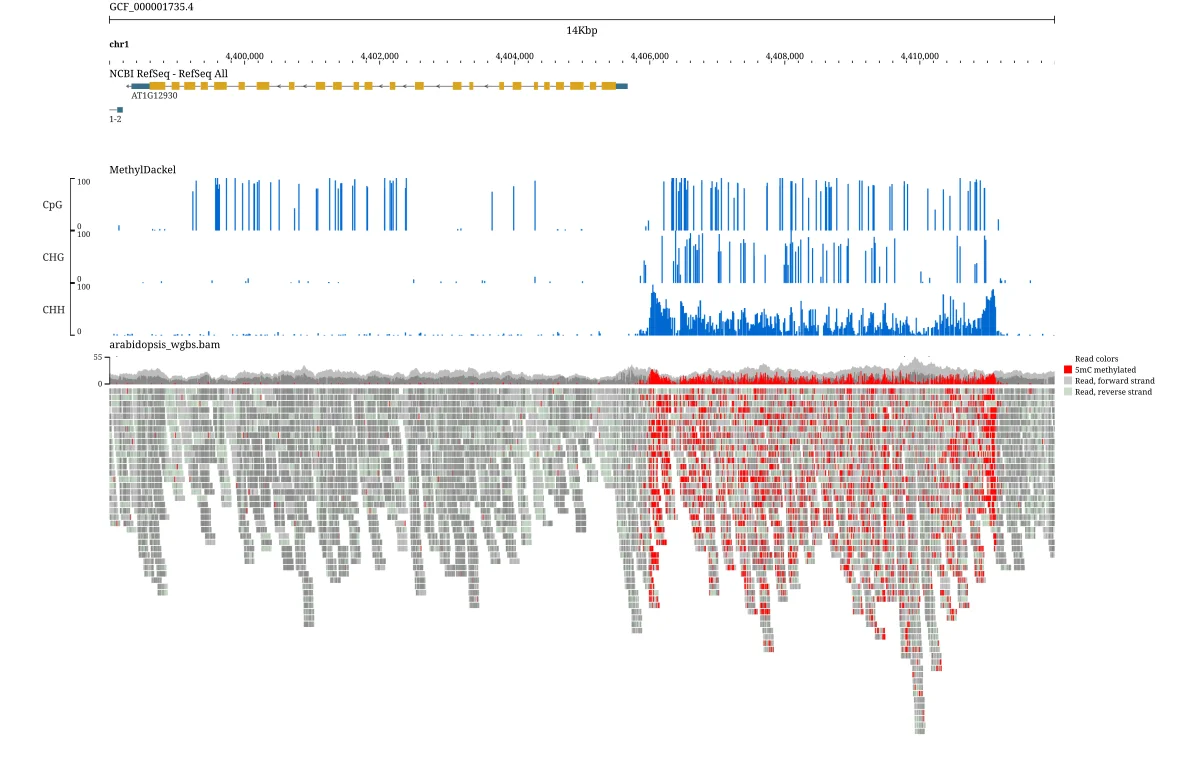
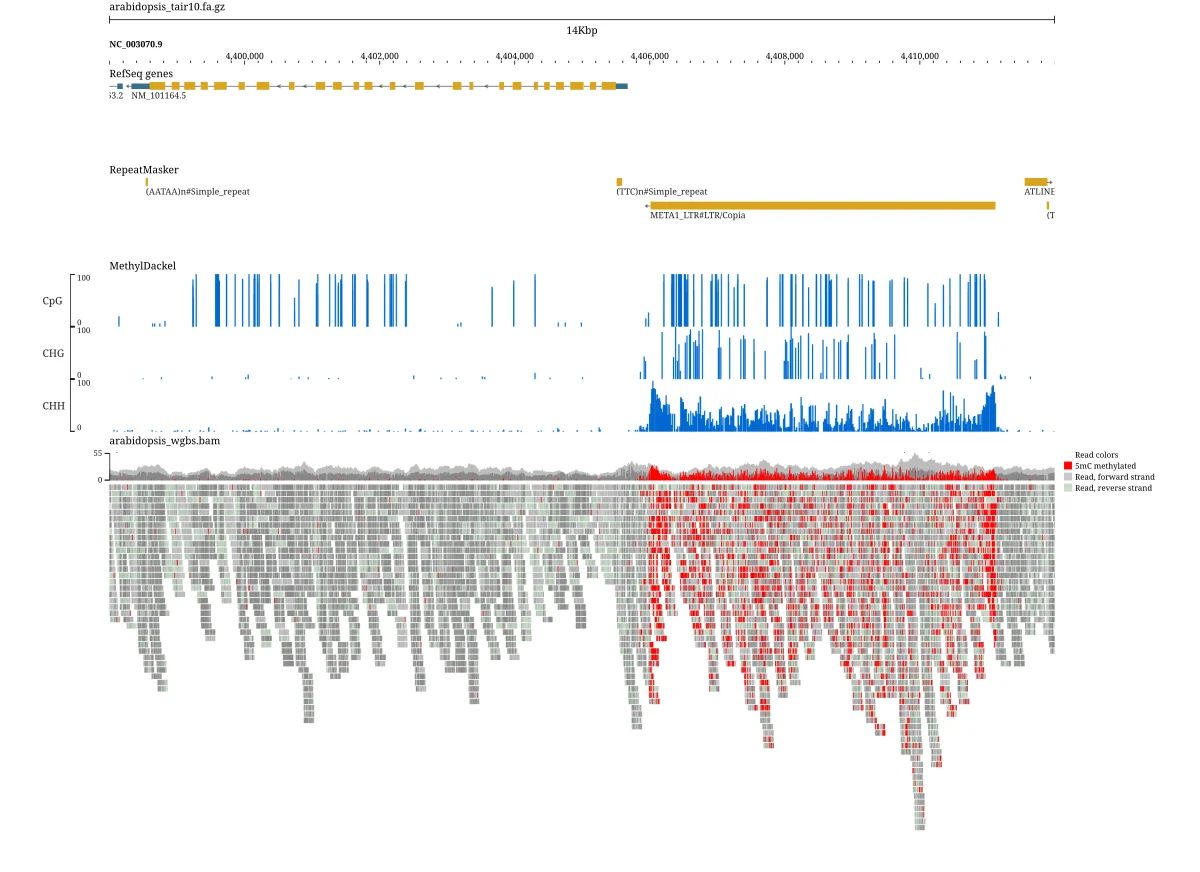
Gallery: bisulfite entry reads the vendored genes, repeats and MethylDackel bigWigs, and adds RepeatMasker

diff --git a/docs/gallery.md b/docs/gallery.md
@@ -207,32 +207,31 @@ jb2export --fasta inst/extdata/hg38_clip.fa \
 `NC_003070.9:4,398,001-4,412,000`
 
 <table>
-<tr><td width="50%"><img src="../gallery/bisulfite-jbrowse.webp" alt="CHH methylation from bisulfite reads in JBrowse. MethylDackel's three context bigWigs and each read's methylated CHH cytosines in red, under the RefSeq gene AT1G12930: CHH is dense over the silenced LTR retrotransposon on the right and rare over the gene body on the left, which carries CpG methylation only." width="100%"></td><td width="50%"><img src="../gallery/bisulfite-r.webp" alt="CHH methylation from bisulfite reads drawn by ggjbrowse. MethylDackel's three context bigWigs and each read's methylated CHH cytosines in red, under the RefSeq gene AT1G12930: CHH is dense over the silenced LTR retrotransposon on the right and rare over the gene body on the left, which carries CpG methylation only." width="100%"></td></tr>
+<tr><td width="50%"><img src="../gallery/bisulfite-jbrowse.webp" alt="CHH methylation from bisulfite reads in JBrowse. RefSeq genes and RepeatMasker over MethylDackel's three context bigWigs and each read's methylated CHH cytosines in red: CHH is dense over the LTR/Copia element on the right and rare over the gene on the left, which carries CpG methylation only." width="100%"></td><td width="50%"><img src="../gallery/bisulfite-r.webp" alt="CHH methylation from bisulfite reads drawn by ggjbrowse. RefSeq genes and RepeatMasker over MethylDackel's three context bigWigs and each read's methylated CHH cytosines in red: CHH is dense over the LTR/Copia element on the right and rare over the gene on the left, which carries CpG methylation only." width="100%"></td></tr>
 </table>
 
-MethylDackel's three context bigWigs and each read's methylated CHH cytosines in red, under the RefSeq gene AT1G12930: CHH is dense over the silenced LTR retrotransposon on the right and rare over the gene body on the left, which carries CpG methylation only.
+RefSeq genes and RepeatMasker over MethylDackel's three context bigWigs and each read's methylated CHH cytosines in red: CHH is dense over the LTR/Copia element on the right and rare over the gene on the left, which carries CpG methylation only.
 
 ```r
 locus <- "NC_003070.9:4,398,001-4,412,000"
-hub <- "https://hgdownload.soe.ucsc.edu/hubs/GCF/000/001/735/GCF_000001735.4"
-genes <- jbrowse_features(
-  file.path(hub, "bbi", "GCF_000001735.4_TAIR10.1.ncbiRefSeq.bb"), locus)
-demo <- "https://jbrowse.org/demos/bisulfite/arabidopsis_wgbs_"
+genes <- jbrowse_features(e("arabidopsis_refseq.bb"), locus)
+repeats <- jbrowse_features(e("arabidopsis_rmsk.bb"), locus)
 methyldackel <- list(type = "MultiWiggleAdapter",
   subadapters = lapply(c("CpG", "CHG", "CHH"), function(context)
-    list(type = "BigWigAdapter", name = context,
-      bigWigLocation = list(uri = paste0(demo, context, ".bw")))))
+    list(type = "BigWigAdapter", name = context, bigWigLocation = list(
+      uri = e(sprintf("arabidopsis_methyldackel_%s.bw", context))))))
 reads <- jbrowse_alignments(e("arabidopsis_wgbs.bam"), locus,
   reference = e("arabidopsis_tair10.fa.gz"),
   display = list(baseColor = list(field = "bisulfite"),
     modifications = list(cytosineContext = "CHH")))
-jbrowse_stack(`RefSeq genes` = genes,
+jbrowse_stack(`RefSeq genes` = genes, RepeatMasker = repeats,
   MethylDackel = jbrowse_wiggle(methyldackel, locus), `CHH reads` = reads)
 ```
 
 ```sh
-jb2export --hub GCF_000001735.4 \
-  --track ncbiRefSeq \
+jb2export --fasta inst/extdata/arabidopsis_tair10.fa.gz \
+  --bigbed inst/extdata/arabidopsis_refseq.bb 'name:RefSeq genes' \
+  --bigbed inst/extdata/arabidopsis_rmsk.bb name:RepeatMasker \
   --multiwig gallery/jb2export/methyldackel.json name:MethylDackel showLegend=true \
   --bam inst/extdata/arabidopsis_wgbs.bam baseColor:bisulfite modifications.cytosineContext=CHH showLegend=true heightMode:grow growMaxHeight=2000 \
   --loc NC_003070.9:4,398,001-4,412,000 \

diff --git a/README.md b/README.md
@@ -47,7 +47,7 @@ remotes::install_github("GMOD/ggjbrowse")
 <tr><td colspan="2"><b><a href="docs/gallery.md#methylation">CpG methylation from MM/ML tags</a></b> <code>20:10,001-22,000</code></td></tr>
 <tr><td width="50%"><img src="gallery/methylation-jbrowse.webp" alt="CpG methylation from MM/ML tags in JBrowse. Each read's 5mC calls in red where methylated and blue where not." width="100%"></td><td width="50%"><img src="gallery/methylation-r.webp" alt="CpG methylation from MM/ML tags drawn by ggjbrowse. Each read's 5mC calls in red where methylated and blue where not." width="100%"></td></tr>
 <tr><td colspan="2"><b><a href="docs/gallery.md#bisulfite">CHH methylation from bisulfite reads</a></b> <code>NC_003070.9:4,398,001-4,412,000</code></td></tr>
-<tr><td width="50%"><img src="gallery/bisulfite-jbrowse.webp" alt="CHH methylation from bisulfite reads in JBrowse. MethylDackel's three context bigWigs and each read's methylated CHH cytosines in red, under the RefSeq gene AT1G12930: CHH is dense over the silenced LTR retrotransposon on the right and rare over the gene body on the left, which carries CpG methylation only." width="100%"></td><td width="50%"><img src="gallery/bisulfite-r.webp" alt="CHH methylation from bisulfite reads drawn by ggjbrowse. MethylDackel's three context bigWigs and each read's methylated CHH cytosines in red, under the RefSeq gene AT1G12930: CHH is dense over the silenced LTR retrotransposon on the right and rare over the gene body on the left, which carries CpG methylation only." width="100%"></td></tr>
+<tr><td width="50%"><img src="gallery/bisulfite-jbrowse.webp" alt="CHH methylation from bisulfite reads in JBrowse. RefSeq genes and RepeatMasker over MethylDackel's three context bigWigs and each read's methylated CHH cytosines in red: CHH is dense over the LTR/Copia element on the right and rare over the gene on the left, which carries CpG methylation only." width="100%"></td><td width="50%"><img src="gallery/bisulfite-r.webp" alt="CHH methylation from bisulfite reads drawn by ggjbrowse. RefSeq genes and RepeatMasker over MethylDackel's three context bigWigs and each read's methylated CHH cytosines in red: CHH is dense over the LTR/Copia element on the right and rare over the gene on the left, which carries CpG methylation only." width="100%"></td></tr>
 <tr><td colspan="2"><b><a href="docs/gallery.md#dnase_rows">DNase in twelve cell lines over the beta-globin locus</a></b> <code>chr11:5,270,001-5,320,000</code></td></tr>
 <tr><td width="50%"><img src="gallery/dnase_rows-jbrowse.webp" alt="DNase in twelve cell lines over the beta-globin locus in JBrowse. Most lines share one peak near 5,281,000, and K562 alone shows several more to either side." width="100%"></td><td width="50%"><img src="gallery/dnase_rows-r.webp" alt="DNase in twelve cell lines over the beta-globin locus drawn by ggjbrowse. Most lines share one peak near 5,281,000, and K562 alone shows several more to either side." width="100%"></td></tr>
 <tr><td colspan="2"><b><a href="docs/gallery.md#dnase_clustered">DNase in twelve cell lines as density, clustered by signal</a></b> <code>chr11:5,270,001-5,320,000</code></td></tr>
